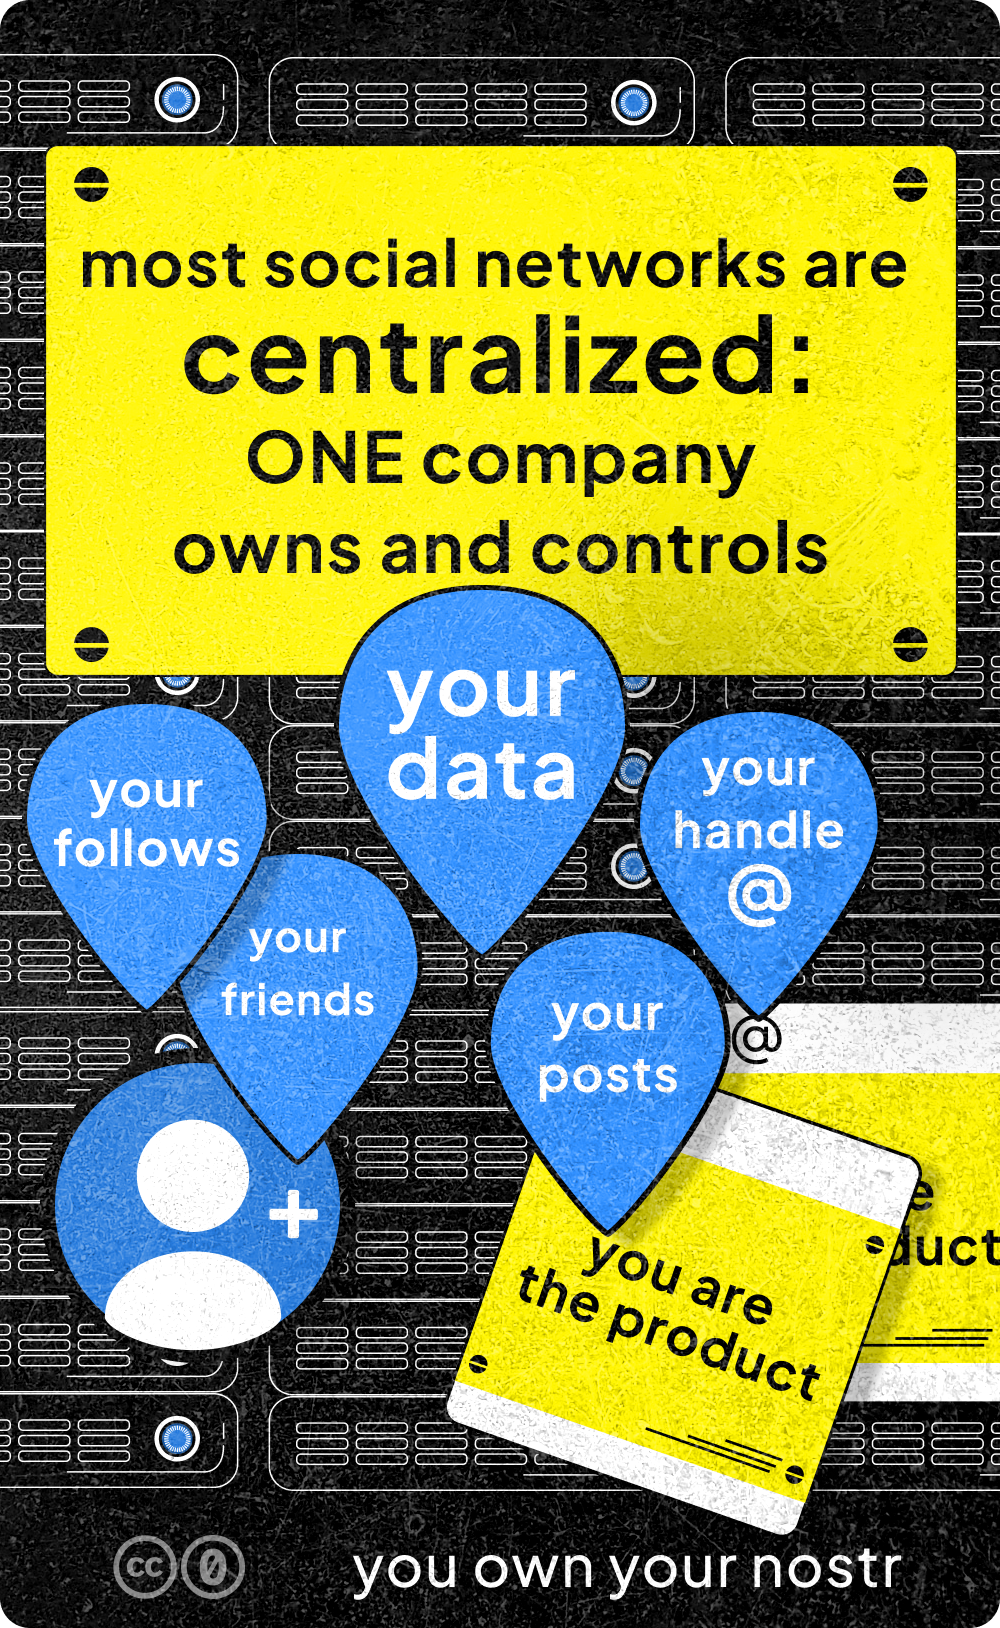
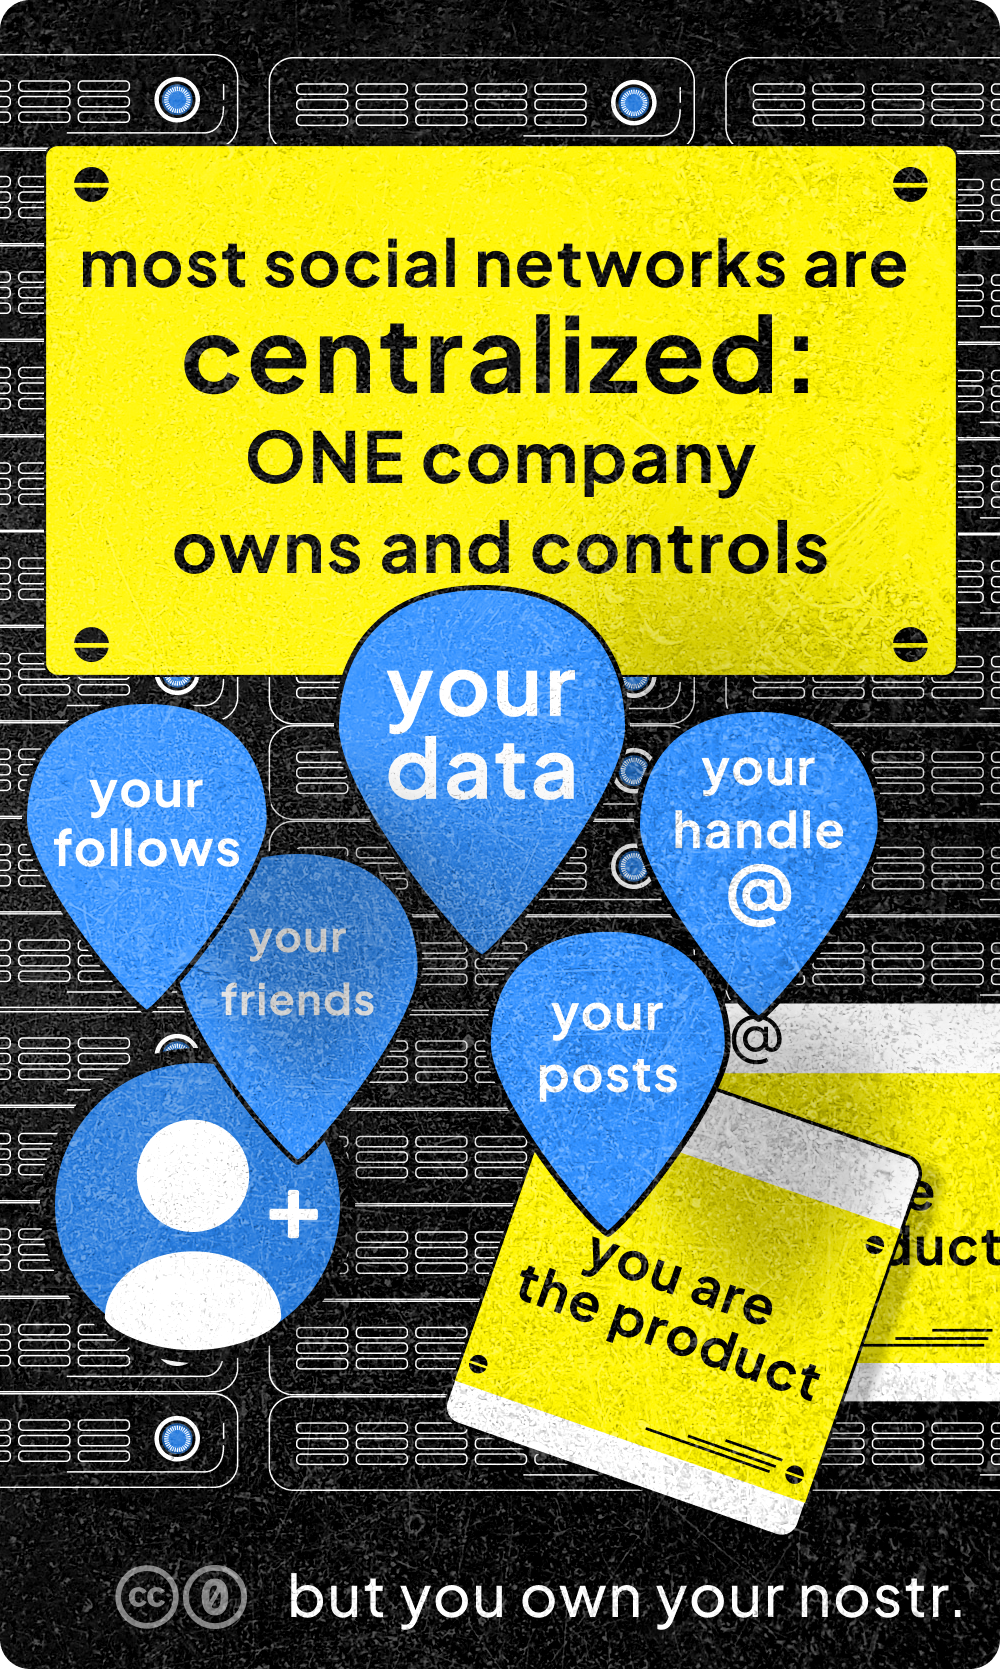
you own your nostr

diff --git a/docs/gift-and-nemesis/decentralization/index.md b/docs/gift-and-nemesis/decentralization/index.md
@@ -15,20 +15,20 @@ categories:
 ![are you the product? type poster](../../assets/images/gift-and-nemesis/you-are-the-product-1.png)
 
 # are you the product?
-## you are NOT the product on nostr
 
 In a social media landscape where your data is sold to advertisers and can be given to governments (concerning if you're a journalist, activist, have minority points of view...), the Nostr is a refreshing alternative.
 
-## But why? What can go wrong with other social networks? 
+## you are NOT the product on nostr
 
 <!-- excerpt ends before this -->
 
+## But why? What can go wrong with other social networks? 
 ![when one company owns and controls your data...](../../assets/images/gift-and-nemesis/you-are-the-product-2.png)
 
+## social media sell your data
+![social media sell your data](../../assets/images/gift-and-nemesis/you-are-the-product-3.png)
 
-![your data is sold](../../assets/images/gift-and-nemesis/you-are-the-product-3.png)
-
-
+## what you feel is yours can get taken away:
 ![it is NOT really your handle, @GotTakenAway](../../assets/images/gift-and-nemesis/you-are-the-product-4.png)
 
 ![your posts can get shadow banned (not shown)](../../assets/images/gift-and-nemesis/you-are-the-product-5.png)
@@ -37,7 +37,15 @@ In a social media landscape where your data is sold to advertisers and can be gi
 
 ![your social media is not yours](../../assets/images/gift-and-nemesis/you-are-the-product-7.png)
 
+## with other social networks, you are the product
 ![social media centralization](../../assets/images/gift-and-nemesis/social-media-centralization.png)
 
+## you own your nostr
+
+![you own your nostr](../../assets/images/gift-and-nemesis/you-own-your-nostr-1.png)
+
+## you can choose your favorite handle
+
+![you can have your favorite handle](../../assets/images/gift-and-nemesis/you-own-your-nostr-2.png)
 
 **2B continued...**

diff --git a/docs/index.md b/docs/index.md
@@ -6,4 +6,4 @@
 
 ## latest
 
-[![are you the product? type poster](../../assets/images/gift-and-nemesis/you-are-the-product-1.png)](gift-and-nemesis/decentralization/index.md)
+[![are you the product? type poster](assets/images/gift-and-nemesis/you-are-the-product-1.png)](gift-and-nemesis/decentralization/index.md)
